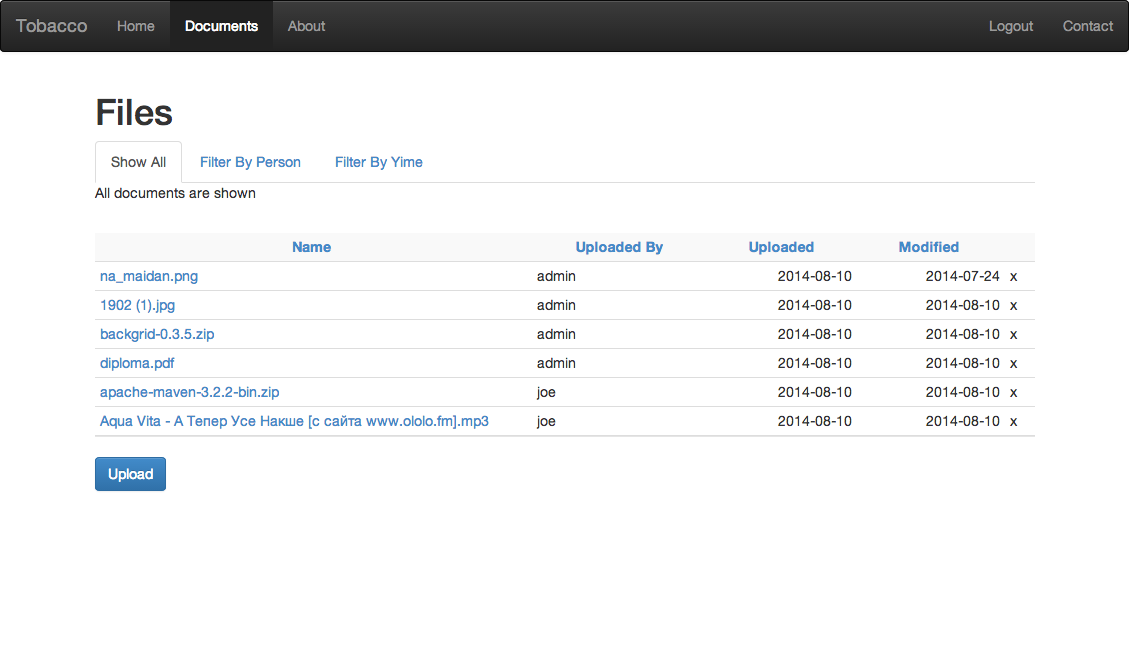
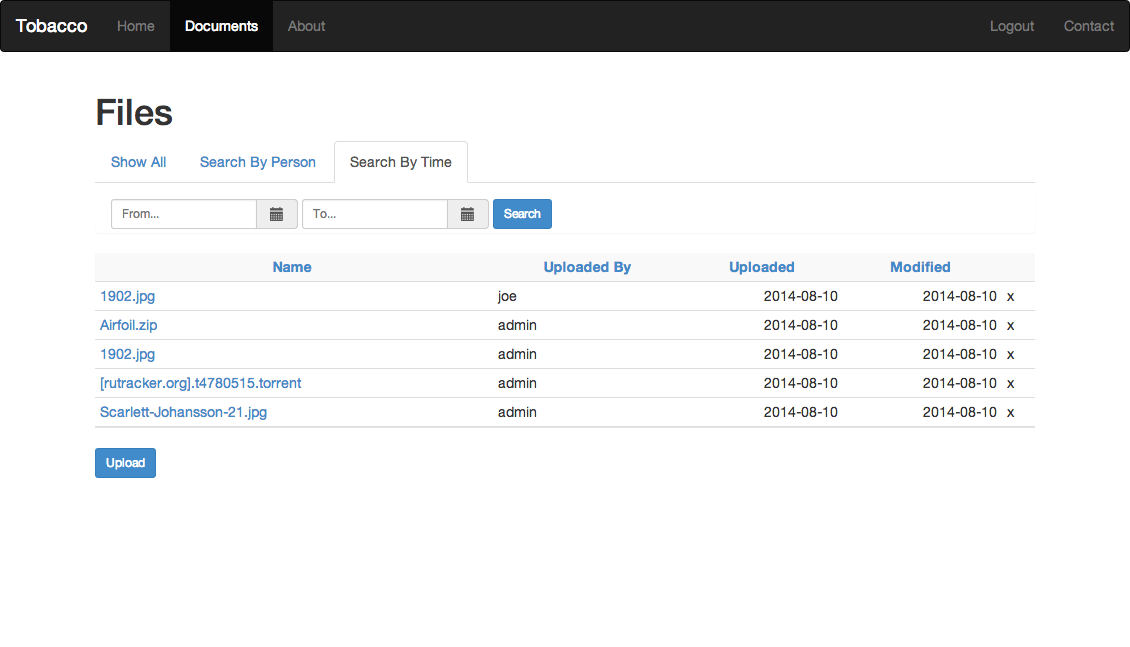
done

diff --git a/file-archive/file-archive-webapp/src/main/webapp/js/pages/documents.js b/file-archive/file-archive-webapp/src/main/webapp/js/pages/documents.js
@@ -157,6 +157,32 @@
         uploadFile.click();
     });
 
+    $('#search_by_name').on('click', filterByName);
+    $('#search_by_time').on('click', filterByTime);
+    $('#all').on('click', showAll);
+
+    function showAll() {
+        documents.url = 'http://localhost:8080/file-archive-webapp/documents/all';
+        documents.fetch();
+    }
+
+    function filterByName() {
+        var nameFilter = $('#name_filter').val();
+        if (nameFilter) {
+            documents.url = 'http://localhost:8080/file-archive-service/document/filter/uploadedBy?uploadedBy=' + nameFilter;
+            documents.fetch();
+        } else {
+            showAll();
+        }
+    }
+
+    function filterByTime() {
+        var fromTime = $('#picker_from').data("DateTimePicker").getDate();
+        var toTime = $('#picker_to').data("DateTimePicker").getDate();
+        documents.url = 'http://localhost:8080/file-archive-service/document/filter/uploadedTime?from=' + fromTime + '&to=' + toTime;
+        documents.fetch();
+    }
+
     $('#picker_from').datetimepicker();
     $('#picker_to').datetimepicker();
 })();

diff --git a/file-archive/file-archive-service/src/main/java/me/noroutine/ucando/FileArchiveService.java b/file-archive/file-archive-service/src/main/java/me/noroutine/ucando/FileArchiveService.java
@@ -136,10 +136,10 @@ public class FileArchiveService {
     @Path("filter/uploadedTime")
     @Produces({ MediaType.APPLICATION_JSON })
     @SuppressWarnings("unchecked")
-    public List<DocumentMetadata> searchByUploadedTime(@QueryParam("from") Date from, @QueryParam("to") Date to) {
+    public List<DocumentMetadata> searchByUploadedTime(@QueryParam("from") long from, @QueryParam("to") long to) {
         return entityManager.createNamedQuery("documents.findByUploadTimeRange")
-                .setParameter("from_time", from)
-                .setParameter("to_time", to)
+                .setParameter("from_time", new Date(from))
+                .setParameter("to_time", new Date(to))
                 .getResultList();
     }
 
